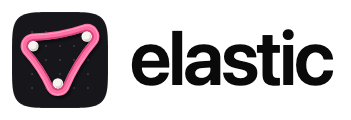
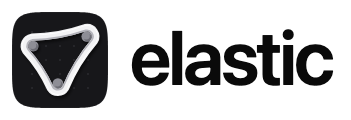
Brand: a neutral mark, white band and grey pegs on graphite
No pink in the icon either: the app stays neutral throughout so any
plugin's own colours sit well in it.

Changed region(s): [[0.057, 0.2, 0.2849, 0.8]]

diff --git a/DESIGN.md b/DESIGN.md
@@ -45,10 +45,11 @@ so a plugin's view matches the window in light and dark. Bundled plugins
 ## Brand
 
 `scripts/brand-mark.mjs` draws the app icon, the in-app mark, the wordmark
-PNGs and the variants sheet (`docs/brand/variants.png`). The mark is a pink
-band stretched around three pegs on a dark tile: the pegs are plugins, the
-band is the app stretching to fit them, centred in the tile (`centred` in
-`scripts/brand-mark.mjs`). The pink lives in the icon only.
+PNGs and the variants sheet (`docs/brand/variants.png`). The mark is a white
+band stretched around three grey pegs on a graphite tile: the pegs are plugins,
+the band is the app stretching to fit them, centred in the tile (`centred` in
+`scripts/brand-mark.mjs`). It is neutral like the rest of the app: no brand
+colour anywhere (Amy, 2026-10-02).
 
 The loading glyph (`@workbench/ui/loading-icon`) is the band itself, drawn in
 the text colour: while something loads, the band winds itself around the pegs,

diff --git a/src/renderer/assets/brand/README.md b/src/renderer/assets/brand/README.md
@@ -1,7 +1,7 @@
 # Brand
 
-`elastic-mark.svg` is the app's mark: a pink band stretched around three
-plugin pegs on a graphite tile. It is generated, not drawn by hand:
+`elastic-mark.svg` is the app's mark: a white band stretched around three
+grey plugin pegs on a graphite tile. It is generated, not drawn by hand:
 `scripts/brand-mark.mjs` holds the geometry and palette, `npm run icons`
 writes this file and `build/icon.png`, and `npm run brand` writes the
 wordmark PNGs in `resources/brand/`. `docs/brand/variants.png` shows the
